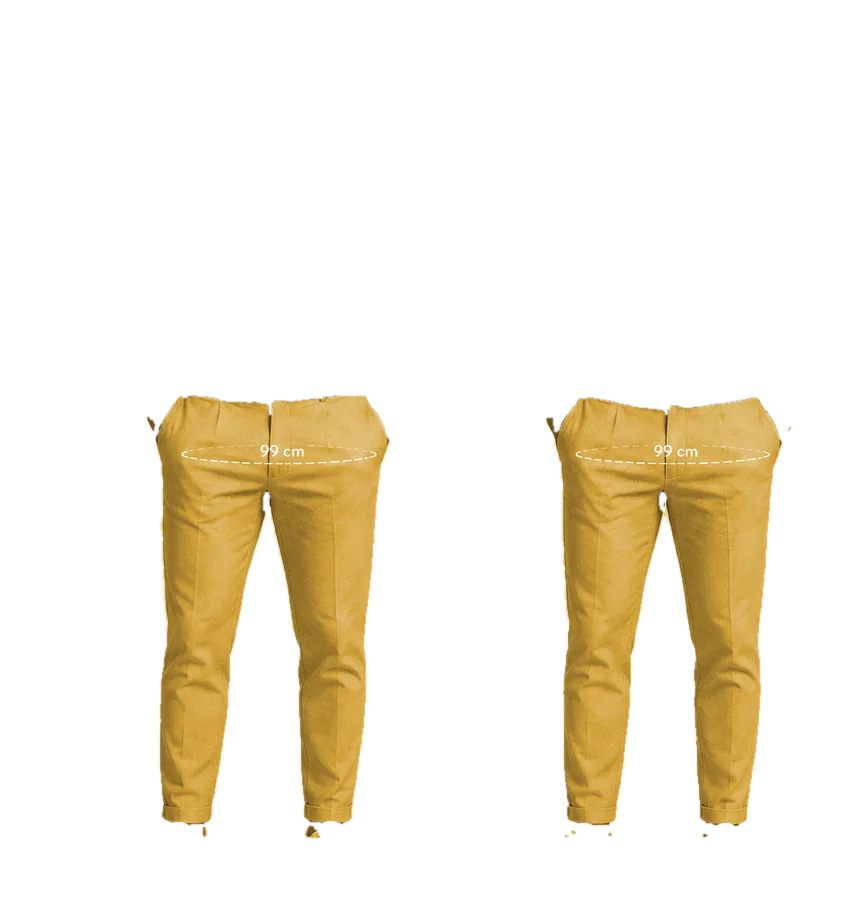
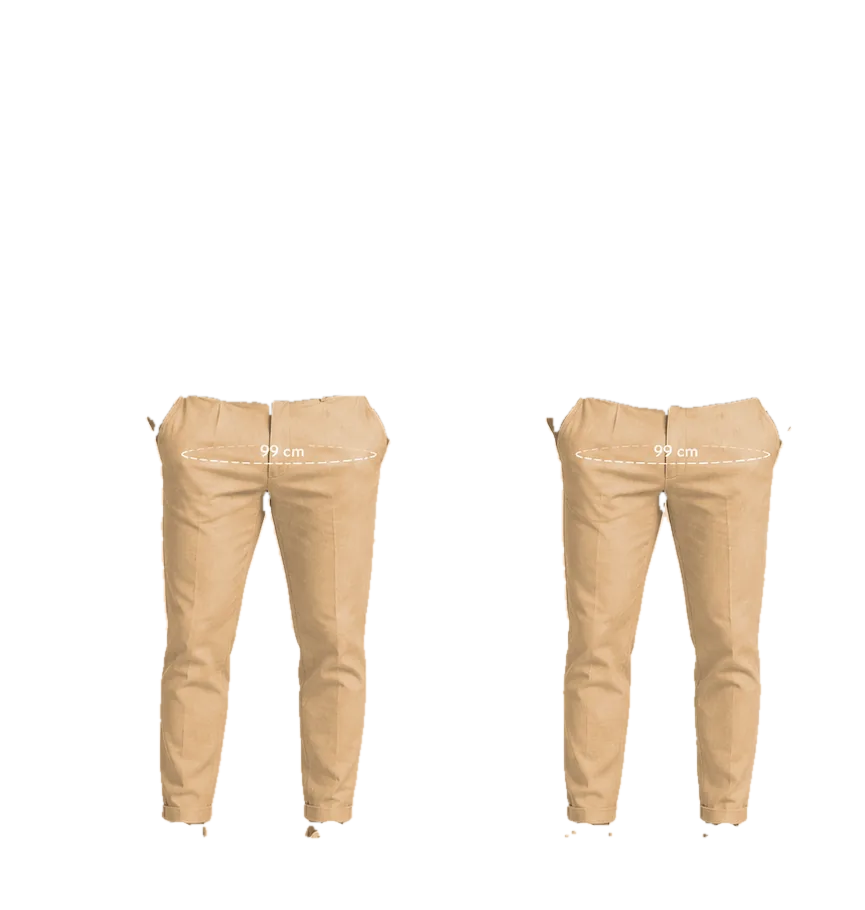
Mostaza -> sand/camel cálido (referencia del chino)
El swatch "Mostaza" (#d3a23a) se leía demasiado brillante/ácido en el
pantalón. Se cambia por un sand/camel cálido y apagado (#ddb384) igual
al chino de referencia, y se renombra a "Mostaza clara / sand".
Regenera solo col/shirt-mostaza.webp y col/pants-mostaza.webp.

Changed region(s): [[0.6243, 0.4308, 0.9052, 0.9231], [0.1561, 0.4308, 0.4682, 0.9231]]

diff --git a/atelier.html b/atelier.html
@@ -736,7 +736,7 @@
 (function(){
   var pc=document.getElementById('photocmp'); if(!pc) return;
   var GROUPS={
-    calidos:[['Verde oliva','#6b7d3a','oliva'],['Verde bosque','#2f4a2e','bosque'],['Terracota / teja','#b5591f','terracota'],['Mostaza / ocre','#d3a23a','mostaza'],['Camel / caramelo','#b89a6a','camel'],['Chocolate','#432e1f','chocolate'],['Vino / burdeos','#7a2038','vino'],['Azul petróleo','#1f6b73','petroleo']],
+    calidos:[['Verde oliva','#6b7d3a','oliva'],['Verde bosque','#2f4a2e','bosque'],['Terracota / teja','#b5591f','terracota'],['Mostaza clara / sand','#ddb384','mostaza'],['Camel / caramelo','#b89a6a','camel'],['Chocolate','#432e1f','chocolate'],['Vino / burdeos','#7a2038','vino'],['Azul petróleo','#1f6b73','petroleo']],
     neutros:[['Crema / hueso','#efe9dd','crema'],['Beige / arena','#d8cbab','arena'],['Caqui','#8a7a4a','caqui'],['Marino cálido','#1f2b45','marino']],
     acentos:[['Naranja quemado','#c0561f','naranja'],['Coral tostado','#c07a5f','coral'],['Turquesa','#1f9aa0','turquesa'],['Esmeralda','#1f7a52','esmeralda'],['Dorado','#cf9a1f','dorado']]
   };
